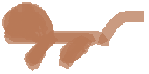
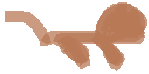
minor cleaning

diff --git a/interface.py b/interface.py
@@ -75,34 +75,42 @@ class Mouse(pg.sprite.Sprite):
     def __init__(self, Game):
         self.Game = Game
         pg.sprite.Sprite.__init__(self)  # call Sprite initializer
-        self.image, self.rect = load_image("mouse.png")#, -1)
-        self.cliking = 0
+        self.image, self.rect = load_image("mouse.png")  # , -1)
+        self.cliking = False
 
     def update(self):
         """move the resized mouse based on the real mouse position"""
+        diff_x = (self.Game.resized_screen.rect.w
+                  - self.Game.app_screen_rect.w)/2
+        diff_y = (self.Game.resized_screen.rect.h
+                  - self.Game.app_screen_rect.h)/2
 
-        diff_x = (self.Game.resized_screen.rect.w - self.Game.app_screen_rect.w) / 2
-        diff_y = (self.Game.resized_screen.rect.h - self.Game.app_screen_rect.h) / 2
+        ratio_x = (self.Game.game_screen_rect.w
+                   / self.Game.resized_screen.rect.w)
+        ratio_y = (self.Game.game_screen_rect.h
+                   / self.Game.resized_screen.rect.h)
 
         pos = pg.mouse.get_pos()
-        real_pos_x = (diff_x + pos[0]) * self.Game.game_screen_rect.w / self.Game.resized_screen.rect.w
-        real_pos_y = (diff_y + pos[1]) * self.Game.game_screen_rect.h / self.Game.resized_screen.rect.h
+
+        real_pos_x = (diff_x + pos[0]) * ratio_x
+        real_pos_y = (diff_y + pos[1]) * ratio_y
         real_pos = real_pos_x, real_pos_y
 
         self.rect.center = real_pos
+
         if self.cliking:
             self.rect.move_ip(5, 10)  # good for button
 
     def cliked(self, target):
         """returns true if the mouse collides with the target"""
-        if not self.cliking:
-            self.cliking = 1
+        if not self.cliking:  # cliked only once and wait to unpress clicking
+            self.cliking = True
             hitbox = self.rect  # .inflate(-5, -5) " why move it ?
             return hitbox.colliderect(target.rect)
 
     def uncliked(self):
         """called to pull the mouse back"""
-        self.cliking = 0
+        self.cliking = False
 
 
 class Chimp(pg.sprite.Sprite):
@@ -111,14 +119,14 @@ class Chimp(pg.sprite.Sprite):
 
     def __init__(self, Game):
         pg.sprite.Sprite.__init__(self)  # call Sprite intializer
-        self.area = Game.game_screen_rect  # walkable space
+        self.area = Game.game_screen_rect  # walkable space (update any change)
 
         self.image, self.rect = load_image("chimp.png", -1)
 #        self.image = pg.transform.scale(self.image, (200, 100))
 #        self.rect = self.image.get_rect()
         self.rect.topleft = 0, 100
-        self.move_x = -9  # depend on image original orientation (positive move = directed to right)
-        self.move_y = -9  # depend on image original orientation (positive move = directed to right)
+        self.move_x = 9
+        self.move_y = 9
         self.dizzy = 0
 
     def update(self):  # implicitly called from allsprite update
@@ -133,11 +141,13 @@ class Chimp(pg.sprite.Sprite):
 #        newpos = self.rect.move((self.move_x, self.move_y))
 #        if not self.area.contains(newpos_x):  # could be useful but not here
 
-        if self.rect.left < self.area.left or self.rect.right > self.area.right:
+        if (self.rect.left < self.area.left
+                or self.rect.right > self.area.right):
             self.move_x = -self.move_x
             self.image = pg.transform.flip(self.image, 1, 0)
 
-        if self.rect.top < self.area.top or self.rect.bottom > self.area.bottom:
+        if (self.rect.top < self.area.top
+                or self.rect.bottom > self.area.bottom):
             self.move_y = -self.move_y
 
         newpos = self.rect.move((self.move_x, self.move_y))
@@ -251,7 +261,8 @@ class Game():
 #                    self.reset_app_screen(self.app_screen_rect.size)
                 elif event.key == pg.K_f:
                     # toggle fullscreen  # TODO: for now because mouse is
-                    # not adapted to it and change speed if game_size != real screen (fullscreen=zoom)
+                    # not adapted to it and change speed if
+                    # game_size != real screen (fullscreen=zoom)
                     self.flags = self.flags ^ pg.FULLSCREEN
                     self.reset_app_screen(self.game_screen_rect.size)
 #                elif event.key == pg.K_r:  # if want to toggle resizability
@@ -267,48 +278,52 @@ class Game():
 
             elif event.type == pg.MOUSEBUTTONDOWN and event.button == 1:
                 if self.mouse.cliked(self.chimp):
-#                    punch_sound.play()  # punch
+                    # punch_sound.play()  # punch
                     self.chimp.punched()
                 else:
-#                    whiff_sound.play()  # miss
+                    # whiff_sound.play()  # miss
                     ""
             elif event.type == pg.MOUSEBUTTONUP and event.button == 1:
                 self.mouse.uncliked()
 
     def update(self, dt):
-#        print(dt)
+        # print(dt)
         self.mouse.update()
         self.allsprites.update()  # call update function of each class inside
 
     def draw(self):
         """Draw Everything"""
-#        self.game_screen.blit(self.bg_image, (0, 0))  # blackground
+        # self.game_screen.blit(self.bg_image, (0, 0))  # blackground
         self.game_screen.blit(self.background_screen.image,
                               self.background_screen.rect)
 
         self.game_screen.blit(self.lower_tool_bar.image,
                               self.lower_tool_bar.rect)
-#        self.allsprites.remove(self.chimp)
+        # self.allsprites.remove(self.chimp)
 
         self.allsprites.draw(self.game_screen)  # draw moving items
 
-        resized_screen, res_screen_rect = self.resize_app_screen()
+        self.resize_app_screen()  # resize the game size to the app size
 
-        self.app_screen.blit(resized_screen, res_screen_rect)
+        self.app_screen.blit(self.resized_screen.image,
+                             self.resized_screen.rect)
 
         fps = self.clock.get_fps()
         pg.display.set_caption(f'{round(fps,2)}')
 
-        pg.display.update(res_screen_rect)  # must be change to have a fixed bg
-        # and only change moving objects, currently change everything ?
+        pg.display.update(self.resized_screen.rect)
+        # must be change to have a fixed bg and only change moving objects ?
+        # currently change everything
 
 #        pg.display.flip()  # use update instead to only change moving object ?
 
     def resize_app_screen(self):
+        """Scale the game images to fit the app size respecting a
+        constant ratio."""
         if self.window_stretched:  # don't want this but keep in code in case
             # scale the game screen to the window size
-            self.resized_screen.image = pg.transform.scale(self.game_screen,
-                                                self.app_screen_rect.size)
+            self.resized_screen.image = pg.transform.scale(
+                self.game_screen, self.app_screen_rect.size)
         else:  # allows to keep ratio
             # compare aspect ratios
             game_ratio = self.game_screen_rect.w / self.game_screen_rect.h
@@ -316,20 +331,19 @@ class Game():
 
             if game_ratio < app_ratio:
                 width = int(self.app_screen_rect.h / self.game_screen_rect.h
-                        * self.game_screen_rect.w)
+                            * self.game_screen_rect.w)
                 height = self.app_screen_rect.h
             else:
                 width = self.app_screen_rect.w
                 height = int(self.app_screen_rect.w / self.game_screen_rect.w
-                         * self.game_screen_rect.h)
-            self.resized_screen.image = pg.transform.scale(self.game_screen,
-                                                (width, height))
+                             * self.game_screen_rect.h)
+            self.resized_screen.image = pg.transform.scale(
+                self.game_screen, (width, height))
         # get the rect of the resized screen for blitting
         # and center it to the window screen
         self.resized_screen.rect = self.resized_screen.image.get_rect()
         self.resized_screen.rect.center = self.app_screen_rect.center
-
-        return self.resized_screen.image, self.resized_screen.rect
+#        return self.resized_screen.image, self.resized_screen.rect
 
     def reset_app_screen(self, size):
         self.app_screen = pg.display.set_mode(size, self.flags)
